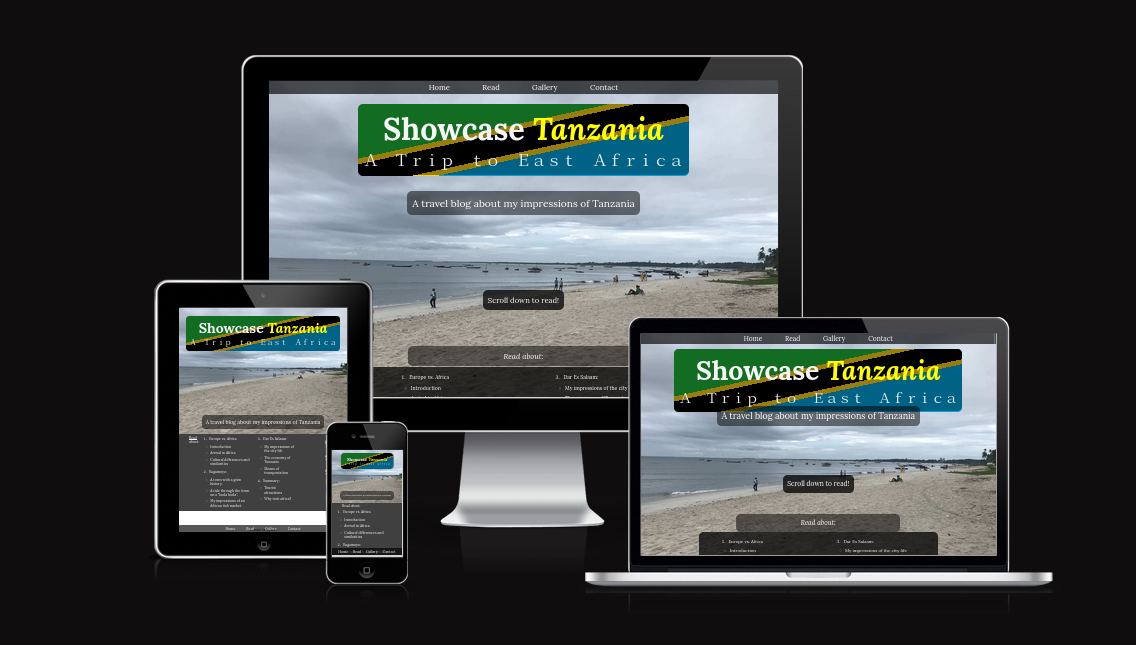
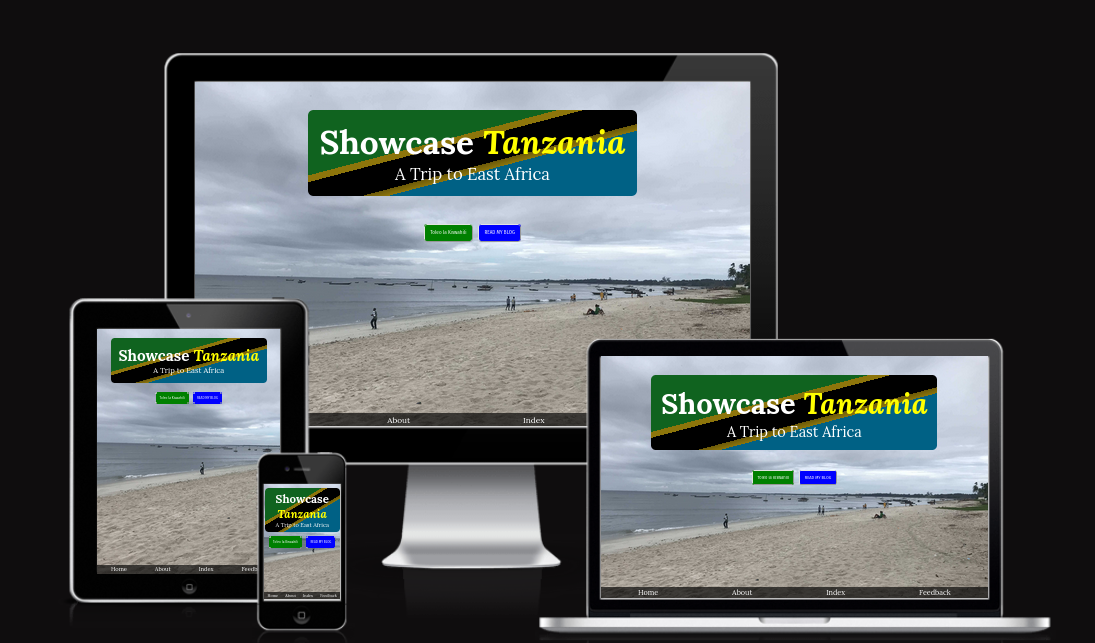
Update README.md: add pictures and update text

diff --git a/index.html b/index.html
@@ -414,7 +414,7 @@
             </section>
         </article>
         <!-- End of Blog -->
-
+        
         <!-- Feedback Form  -->
         <section id="feedback" class="scroll">
             <h2>Share Your Thoughts:</h2>

diff --git a/README.md b/README.md
@@ -10,11 +10,11 @@ This blog chronicles my unique experience in Tanzania, offering an intimate look
 
 1. Firsthand experiences in Bagamoyo and Dar es Salaam
 2. Insights into Tanzanian history, from its colonial past to present day
-3. Practical travel tips, including visa processes and local transportation
+3. Insights into visa processes and local transportation
 4. Cultural observations comparing European and African lifestyles
 5. Personal anecdotes about family interactions and daily life in Tanzania
 
-Discover Tanzania's rich culture, from historic coastal towns to bustling urban centers. Learn about local customs, cuisine, and the warmth of Tanzanian hospitality. This blog aims to bridge cultures, fostering understanding and appreciation for Tanzania's heritage while providing valuable information for potential travelers. Whether you're planning an African adventure or simply curious about life in Tanzania, this blog offers a balanced perspective on the country's beauty, challenges, and potential for personal growth. Join me on this transformative journey and explore why Tanzania is not just a destination, but an experience that can broaden your horizons.
+This blog aims to bridge cultures, fostering understanding and appreciation for Tanzania's heritage while providing valuable information for potential travelers. Whether you're planning an African adventure or simply curious about life in Tanzania, this blog offers a balanced perspective on the country's beauty, challenges, and potential for personal growth. Join me on this transformative journey and explore why Tanzania is not just a destination, but an experience that can broaden your horizons.
 
 
 ![screenshot](documentation/mockup.png)
@@ -79,31 +79,53 @@ This feature streamlines the user experience, allowing visitors to efficiently f
 ![screenshot](documentation/features/index.png)
 
 
-### Contact Form 
+### Feedback Form
 
-The website includes a user-friendly contact form that allows visitors to reach out to the author directly:
+The website includes a user-friendly feedback form that allows visitors to share their thoughts directly with me:
 
-- Requires essential information: Name, Email, and Message
+- Requires essential information: Name, Email, and Feedback
 - Clearly marks required fields with asterisks (*)
-- Includes a textarea for detailed messages
+- Includes a textarea for detailed feedback
 - Features a prominent "Send" button for submission
 - Utilizes form validation to ensure all required fields are filled
 - Submits data to a secure endpoint (https://formdump.codeinstitute.net/)
-- Accessible via the navigation bar, allowing easy contact from any page
+- Accessible via the navigation bar, allowing easy feedback from any page
 
-This feature enhances user engagement by providing a straightforward way for readers to communicate with the author, ask questions, or provide feedback about the blog content.
+This feature enhances user engagement by providing a straightforward way for readers to share their thoughts, ask questions, or provide feedback about the blog content. It reflects the personal nature of the blog and encourages a direct connection between the readers and myself as the author.
 
+![screenshot](documentation/features/feedback.png)
 
+### Blog Features:
 
+1. **Firsthand Experiences in Bagamoyo and Dar es Salaam**
+   - Reflection on Bagamoyo's historical significance
+   - Impressions of Dar es Salaam
+   - Descriptions of the vibrant fish market in Bagamoyo
+   - Experience with local transportation, including "boda boda" motorcycle taxis
 
-///////////////////
-The travel blog narrates the author's personal experiences, providing engaging stories and valuable insights about Tanzania. It helps users gain a deeper understanding of the culture and lifestyle in Tanzania through a first-hand account.
+2. **Insights into Tanzanian History**
+   - Information about Bagamoyo's role in the slave trade and as the first capital of German East Africa
+   - Observations on the remnants of colonial architecture, such as the old German Boma
 
-- **Currency Conversion Table**
+3. **Practical Travel Tips**
+   - Details on the "visa on arrival" process
+   - Statistics into the economy and GDP of Tanzania for understanding local prices
+   - Currency conversion table
 
-This table allows users to see the value of Tanzanian Shillings in various currencies, helping travelers understand the cost of living and travel expenses in Tanzania.
+![screenshot](documentation/features/currency_conversion_table.png) 
 
-![screenshot](documentation/features/currency_conversion_table.png)
+4. **Cultural Observations**
+   - Reflections on the sense of community and welcoming attitude towards foreigners
+   - Comparisons of attitudes towards tourists in Tanzania versus Europe
+   - Personal anecdotes about family interactions and daily life in Tanzania
+
+5. **Multimedia Integration**
+   - Videos and images next to the text create a pleasant reading experience
+
+- **Examples:**
+
+![screenshot](documentation/features/intro.png)
+![screenshot](documentation/features/video_example.png)
 
 
 ## Tools & Technologies Used
